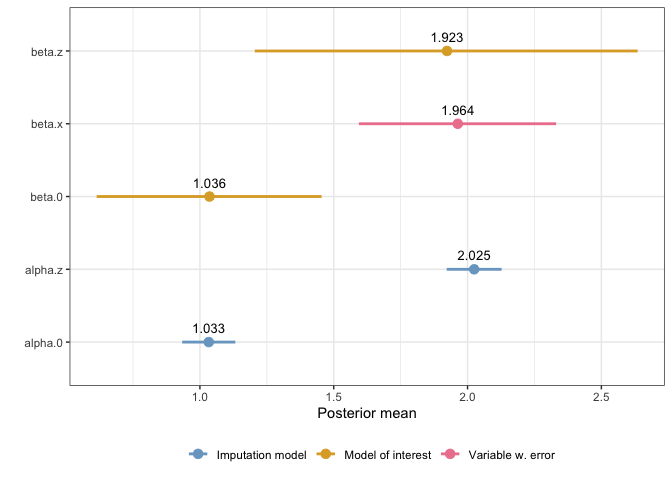
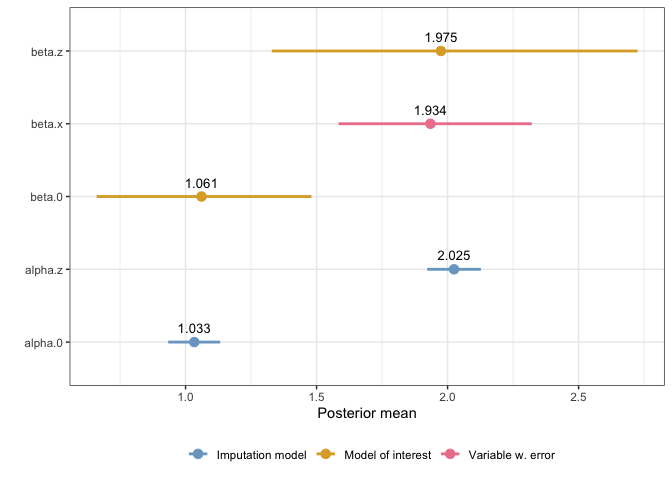
fix small issues in readme

diff --git a/README.md b/README.md
@@ -14,6 +14,8 @@ functionality is still missing. Feel free to get in touch if you would
 like to use the package, but would like to know more about it’s current
 limitations.
 
+------------------------------------------------------------------------
+
 Fitting measurement error models and missing data imputation models in
 INLA is not trivial, and requires several workarounds in order to fit
 the model. At the same time, a Bayesian hierarchical framework is very
@@ -66,7 +68,9 @@ missingness, called $x$. We wish to fit the model
 
 $$
  y = \beta_0 + \beta_x x + \beta_z z + \varepsilon \ ,
-$$ but adjusting for all the errors in $x$.
+$$
+
+but adjusting for all the errors in $x$.
 
 First load the package:
 
@@ -86,7 +90,9 @@ $x$ and the error free covariate $z$, so the imputation model will be
 
 $$
  x = \alpha_0 + \alpha_z z + \varepsilon_x \ .
-$$ We write that as
+$$
+
+We write that as
 
 ``` r
 imputation_formula <- x ~ z
@@ -94,7 +100,7 @@ imputation_formula <- x ~ z
 
 When adjusting for measurement error, we are completely dependent on
 having some information about the measurement error variaces
-$\sigma_{u_c}^2$ (for the classical error) and $\sigma_{u_b}$ (for the
+$\sigma_{u_c}^2$ (for the classical error) and $\sigma_{u_b}^2$ (for the
 Berkson error), since the size of this variance will affect how the
 estimates are biased. We can gain information about these variances in a
 few different ways, if repeated measurements have been made then these
@@ -107,7 +113,7 @@ In this case, since we have in fact simulated the data ourselves, we
 know that the error variances are in both cases close to 1, so we
 specify priors that have modes at 1.
 
-In the `fit_inlami`function we also need to specify the likelihood for
+In the `fit_inlami` function we also need to specify the likelihood for
 the model of interest, which in this case is Gaussian.
 
 ``` r
@@ -140,35 +146,35 @@ Once we have fit the model, we can view the summary:
 summary(simple_model)
 #> Fixed effects for model of interest: 
 #>            mean        sd 0.025quant 0.5quant 0.975quant     mode          kld
-#> beta.0 1.035775 0.2178311  0.6142178 1.035578   1.454553 1.026157 9.325578e-08
-#> beta.z 1.923287 0.3872068  1.2049692 1.921647   2.635497 1.931380 9.297428e-05
+#> beta.0 1.060777 0.2160778  0.6607368 1.061048   1.480327 1.107720 3.394914e-07
+#> beta.z 1.974736 0.3845800  1.3292609 1.994203   2.725384 2.074372 6.295227e-05
 #> 
 #> Coefficient for error prone variable: 
 #>            mean        sd 0.025quant 0.5quant 0.975quant     mode
-#> beta.x 1.963512 0.1867079   1.594061 1.963913   2.330899 1.965425
+#> beta.x 1.934415 0.1872919   1.584007 1.927663   2.321449 1.901174
 #> 
 #> Fixed effects for imputation model: 
 #>             mean         sd 0.025quant 0.5quant 0.975quant     mode
-#> alpha.0 1.033073 0.05059893  0.9337955 1.033081   1.132306 1.033096
-#> alpha.z 2.024723 0.05226082  1.9222561 2.024706   2.127287 2.024672
+#> alpha.0 1.033112 0.05053598  0.9339588 1.033119   1.132223 1.033134
+#> alpha.z 2.024636 0.05219671  1.9222915 2.024620   2.127071 2.024588
 #>                  kld
-#> alpha.0 2.406692e-12
-#> alpha.z 1.056893e-11
+#> alpha.0 2.108388e-12
+#> alpha.z 9.127922e-12
 #> 
 #> Model hyperparameters (apart from beta.x): 
 #>                                                 mean        sd 0.025quant
-#> Precision for the Gaussian observations    1.1235958 0.3356136  0.5804093
-#> Precision for the Gaussian observations[2] 1.0981411 0.3123697  0.6091127
-#> Precision for the Gaussian observations[3] 0.9304507 0.1055727  0.7396030
-#> Precision for the Gaussian observations[4] 0.9727626 0.1188337  0.7596719
+#> Precision for the Gaussian observations    1.1019393 0.3310944  0.5695484
+#> Precision for the Gaussian observations[2] 1.0525910 0.3198897  0.5878718
+#> Precision for the Gaussian observations[3] 0.9392355 0.1110450  0.7315933
+#> Precision for the Gaussian observations[4] 0.9695980 0.1193234  0.7621798
 #>                                             0.5quant 0.975quant      mode
-#> Precision for the Gaussian observations    1.0856351   1.890152 1.0146301
-#> Precision for the Gaussian observations[2] 1.0562501   1.831480 0.9772320
-#> Precision for the Gaussian observations[3] 0.9245442   1.155501 0.9128883
-#> Precision for the Gaussian observations[4] 0.9655261   1.227696 0.9511417
+#> Precision for the Gaussian observations    1.0632758   1.861922 0.9908255
+#> Precision for the Gaussian observations[2] 0.9980265   1.834041 0.8917934
+#> Precision for the Gaussian observations[3] 0.9357206   1.168491 0.9338017
+#> Precision for the Gaussian observations[4] 0.9599274   1.231860 0.9371894
 ```
 
-and we can use the default plot function to see a plot of the fixed
+And we can use the default plot function to see a plot of the fixed
 effects:
 
 ``` r
